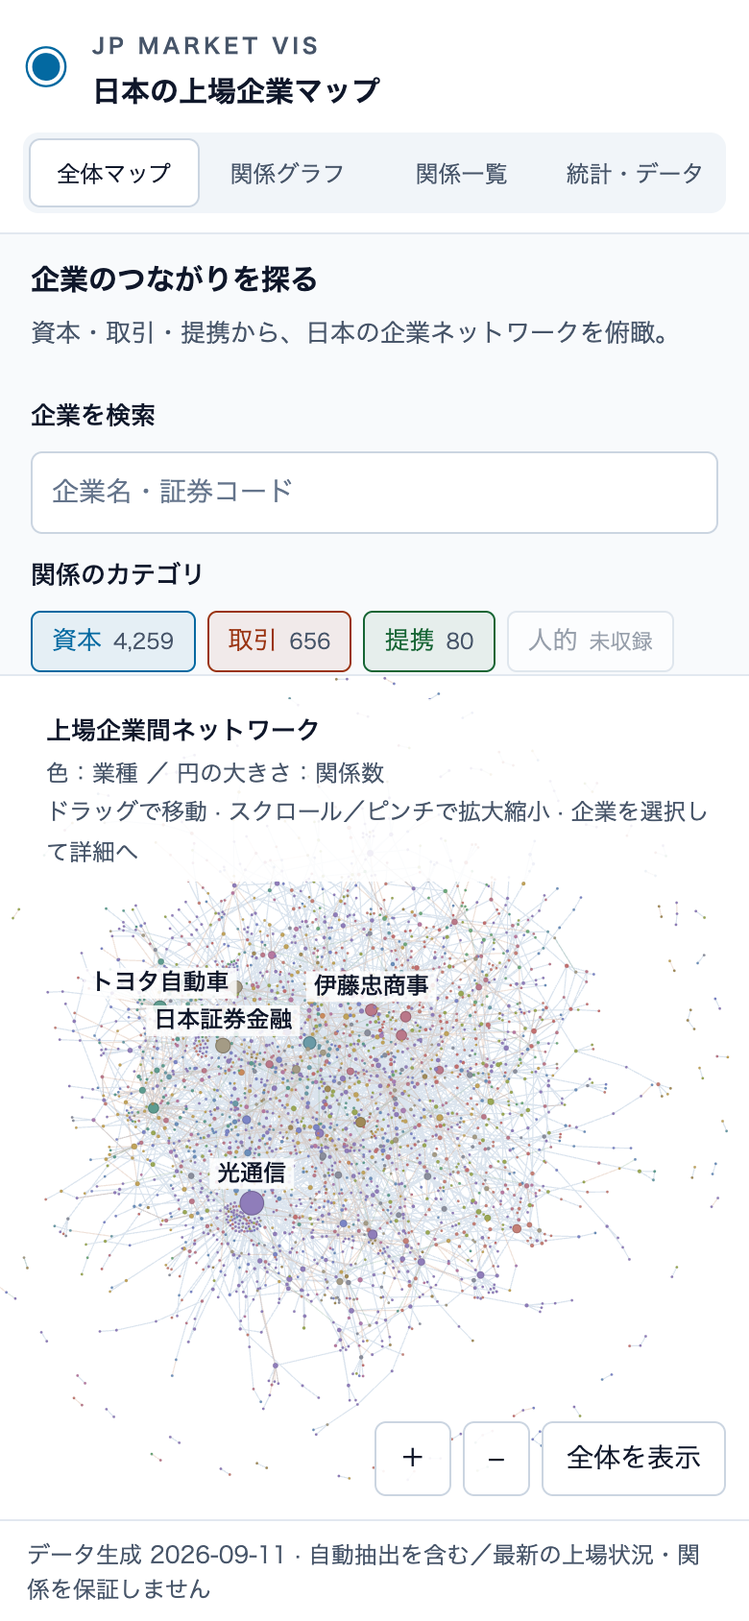
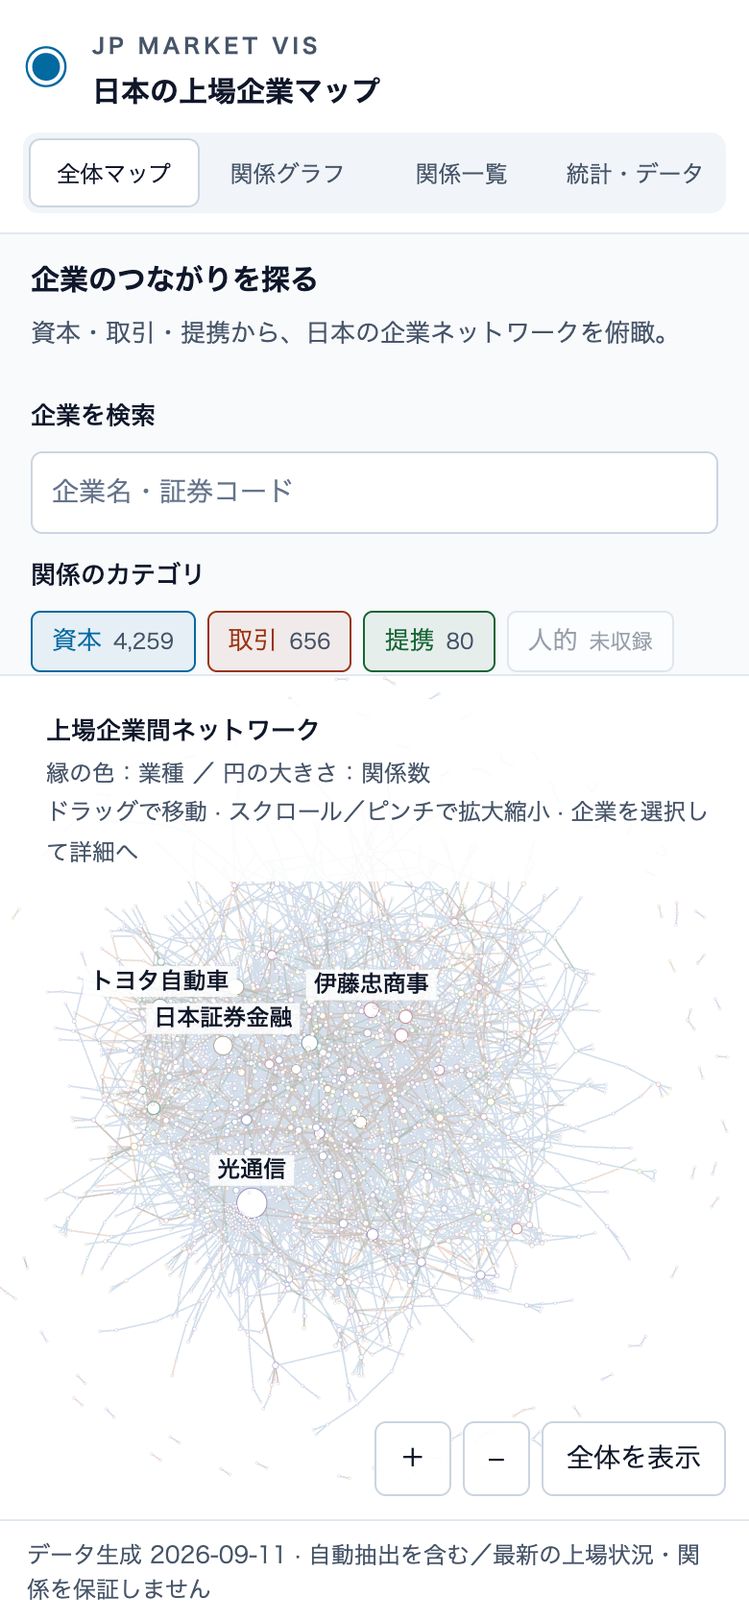
全体マップのノードを白い円＋業種色の縁にし、企業名を円の中に書く
- ノードは白で塗り、縁を業種色で描く（縁は円の内側に描き、外側＝当たり判定の半径）。
  ホバー中は縁を太くし、薄く業種色を敷いて 1.2 倍に拡大。半径は √関係数 × 2.8（最小 4）
- 企業名は円の中に書く（画面上 11〜20px）。1 行で入らなければ「・」や
  「ホールディングス」「インターネット」などの語の境界で 2 行に分け、収まる最大の文字で描く。
  それでも入らない企業は関係数の多い順に円の上へラベルを出し、名前入りの円や他のラベルとは重ねない
- 円内の文字と上ラベルは全ノード描画後の別パスで重ね、後から描かれる円に隠れないようにする
- 凡例の色見本を白抜きの縁付き円に変更、見出しを「縁の色：業種」に。線は不透明度 0.3・幅 0.8
- src/data/nodeShape.js に配置ロジック（insideLayout / splitCandidates）を置き、単体テスト 22 件

QA 71/71 合格（qa/results/2026-09-18-2d-map）、ビルド成功。

Changed region(s): [[0.1538, 0.5545, 0.7385, 0.8318], [0.0615, 0.4621, 0.5846, 0.4929]]

diff --git a/src/components/GlobalMap.jsx b/src/components/GlobalMap.jsx
@@ -2,17 +2,17 @@ import React, { useCallback, useEffect, useMemo, useRef, useState } from 'react'
 import ForceGraph2D from 'react-force-graph-2d';
 import { CATEGORY_AVAILABILITY, CATEGORY_COLORS, CATEGORY_JA, CATEGORY_TEXT_COLORS, GLOBAL_GRAPH, INDUSTRY_COLORS, industryColor, searchCompanies } from '../data/graph.js';
 import { filterGlobalGraph } from '../data/filterGlobalGraph.js';
-import { HOVER_SCALE, LABEL_MIN_DEGREE, nodeRadius, ringWidth, shade, showsLabel } from '../data/nodeShape.js';
+import { HOVER_SCALE, LABEL_MIN_DEGREE, insideLayout, nodeRadius, ringWidth, showsLabel } from '../data/nodeShape.js';
 
 // 収録のあるカテゴリだけを初期選択にする（未収録カテゴリは選択できない）
 const AVAILABLE_CATEGORIES = Object.keys(CATEGORY_JA).filter((key) => CATEGORY_AVAILABILITY[key]?.listed > 0);
 
-// 全体マップ: 平面（2D）のネットワーク。ノードは塗りの円＋細いリング（色は業種、半径 ∝ √関係数）、線は関係カテゴリ。
+// 全体マップ: 平面（2D）のネットワーク。ノードは白い円に業種色の縁（半径 ∝ √関係数）で、円の中に企業名を書く。線は関係カテゴリ。
 // ドラッグで移動、スクロール／ピンチで拡大縮小。ノードの描画と当たり判定は nodeShape.js の同じ半径を使う。
 const CORE_MIN_DEGREE = 3; // 「全体を表示」で収める中心部の関係数（孤立した小さな塊は画面外でもよい）
 const isCore = (node) => node.degree >= CORE_MIN_DEGREE;
 const PAN_STEP = 80; // 矢印キー 1 回で動かす画面上の距離（px）
-const LINK_ALPHA = '40'; // 線の不透明度 0.25（線より円が目立つように）
+const LINK_ALPHA = '4d'; // 線の不透明度 0.3（線より円が目立つように）
 const linkColor = (link) => `${CATEGORY_COLORS[link.category] ?? '#94a3b8'}${LINK_ALPHA}`;
 const noLabel = () => '';
 
@@ -69,32 +69,48 @@ export default function GlobalMap({ onSelectCompany }) {
     if (fn) { event.preventDefault(); fn(); }
   };
 
-  // --- ノードの描画: 塗りの円と、同色を暗くしたリング（円の内側に描くので外縁＝当たり判定の半径）。ホバー中はリングを太く・濃くし、少し拡大する
+  // --- ノードの描画: 白い円に業種色の縁（縁は円の内側に描くので外側＝当たり判定の半径）。ホバー中は縁を太くし、少し拡大して薄く色を敷く。
+  // 円の中に企業名を書く（画面上で 11〜20px、長い名前は 2 行。円に収まらない企業は drawLabels で円の上に出す）
+  const textWidths = useRef(new Map()); // 企業名の 12px での幅（画面 px）。倍率に関係なく一定なので一度だけ測る
+  const widthAt12 = (ctx, name) => {
+    let w = textWidths.current.get(name);
+    if (w === undefined) { const f = ctx.font; ctx.font = '12px sans-serif'; w = ctx.measureText(name).width; ctx.font = f; textWidths.current.set(name, w); }
+    return w;
+  };
   const drawNode = useCallback((node, ctx, scale) => {
     const hover = node === hoverRef.current;
     const r = nodeRadius(node.degree) * (hover ? HOVER_SCALE : 1);
     const color = industryColor(node.industry);
     const ring = ringWidth(r, hover);
-    ctx.beginPath(); ctx.arc(node.x, node.y, r, 0, Math.PI * 2);
-    ctx.fillStyle = color; ctx.fill();
     ctx.beginPath(); ctx.arc(node.x, node.y, r - ring / 2, 0, Math.PI * 2);
-    ctx.lineWidth = ring; ctx.strokeStyle = shade(color, hover ? 0.5 : 0.28); ctx.stroke();
+    ctx.fillStyle = hover ? `${color}1f` : '#ffffff'; ctx.fill();
+    ctx.lineWidth = ring; ctx.strokeStyle = color; ctx.stroke();
+    // 円の中に書く企業名の配置（null なら入らない）。文字は後から描かれる円に隠れないよう drawLabels でまとめて重ねる
+    node.__labelInside = insideLayout(r * scale, node.name, (text) => widthAt12(ctx, text));
   }, []);
-  // ラベルは全ノードを描いた後に別パスで重ねる（後から描かれる円に隠れない）。画面上で一定の大きさ（12px）、白の下地付き。
+  // 円の中に名前が入らない企業のラベルは、全ノードを描いた後に別パスで円の上に重ねる（後から描かれる円に隠れない）。画面上で一定の大きさ（12px）、白の下地付き。
   // 画面内の候補を関係数の多い順（ホバー中を最優先）に置き、先に置いたラベルと重なるものは描かない（縮小時にハブのラベルが重ならない）
   const dataRef = useRef(data); dataRef.current = data;
   const drawLabels = useCallback((ctx, scale) => {
     const fg = fgRef.current; if (!fg) return;
     const font = 12 / scale, pad = 4 / scale, hoverNode = hoverRef.current;
     const tl = fg.screen2GraphCoords(0, 0), br = fg.screen2GraphCoords(size.w, size.h);
-    const candidates = [];
+    const candidates = [], placed = []; // placed: 名前を書いた円と、置いたラベルの矩形（上ラベルはこれらと重ねない）
+    ctx.textAlign = 'center'; ctx.textBaseline = 'middle'; ctx.fillStyle = '#0f172a';
     for (const node of dataRef.current.nodes) {
       if (!Number.isFinite(node.x) || node.x < tl.x || node.x > br.x || node.y < tl.y || node.y > br.y) continue;
-      if (showsLabel(node.degree, scale, node === hoverNode)) candidates.push(node);
+      const hover = node === hoverNode;
+      const inside = node.__labelInside;
+      if (inside) {
+        ctx.font = `${hover ? 600 : 500} ${inside.font / scale}px sans-serif`;
+        const step = inside.font * 1.3 / scale, y0 = node.y - step * (inside.lines.length - 1) / 2;
+        inside.lines.forEach((line, i) => ctx.fillText(line, node.x, y0 + step * i));
+        const r = nodeRadius(node.degree) * (hover ? HOVER_SCALE : 1);
+        placed.push({ x0: node.x - r, x1: node.x + r, y0: node.y - r, y1: node.y + r });
+      } else if (showsLabel(node.degree, scale, hover)) candidates.push(node);
     }
     candidates.sort((a, b) => (b === hoverNode) - (a === hoverNode) || b.degree - a.degree);
     ctx.textAlign = 'center'; ctx.textBaseline = 'bottom';
-    const placed = [];
     for (const node of candidates) {
       const hover = node === hoverNode;
       const r = nodeRadius(node.degree) * (hover ? HOVER_SCALE : 1);
@@ -170,17 +186,17 @@ export default function GlobalMap({ onSelectCompany }) {
         </section>
         <details className="legend-details" open>
           <summary>業種の凡例</summary>
-          <div className="legend">{Object.entries(INDUSTRY_COLORS).map(([name, color]) => <span key={name}><i style={{ background: color }} />{name}</span>)}</div>
+          <div className="legend">{Object.entries(INDUSTRY_COLORS).map(([name, color]) => <span key={name}><i style={{ borderColor: color }} />{name}</span>)}</div>
         </details>
       </aside>
       <div ref={wrapRef} className="map-canvas" tabIndex={0} role="group"
         aria-label="上場企業間ネットワーク。ドラッグで移動、スクロールで拡大縮小。矢印キーで移動、＋／−で拡大縮小、0 で全体を表示できます。企業をクリックすると関係グラフを開きます。"
         onKeyDown={onKeyDown}>
-        <div className="map-caption"><strong>上場企業間ネットワーク</strong><br />色：業種 ／ 円の大きさ：関係数<br />ドラッグで移動 · スクロール／ピンチで拡大縮小 · 企業を選択して詳細へ</div>
+        <div className="map-caption"><strong>上場企業間ネットワーク</strong><br />縁の色：業種 ／ 円の大きさ：関係数<br />ドラッグで移動 · スクロール／ピンチで拡大縮小 · 企業を選択して詳細へ</div>
         <ForceGraph2D ref={fgRef} width={size.w} height={size.h} graphData={data}
           backgroundColor="#ffffff" nodeId="id" nodeLabel={noLabel}
           nodeCanvasObject={drawNode} nodePointerAreaPaint={paintPointerArea}
-          linkColor={linkColor} linkWidth={0.6}
+          linkColor={linkColor} linkWidth={0.8}
           warmupTicks={50} cooldownTicks={100}
           enableNodeDrag={false} minZoom={0.05} maxZoom={20}
           onRenderFramePost={drawLabels}

diff --git a/src/data/nodeShape.js b/src/data/nodeShape.js
@@ -1,25 +1,58 @@
-// 全体マップのノード（2D の塗りの円＋細いリング）の大きさとラベル表示の規則。
+// 全体マップのノード（白い円に業種色の縁、円の中に企業名）の大きさとラベル表示の規則。
 // 描画（nodeCanvasObject）と当たり判定（nodePointerAreaPaint）が同じ半径を使うので、見た目とホバー・クリックの対象が一致する。
-export const NODE_MIN_RADIUS = 3.5; // グラフ座標単位。全体表示（倍率 0.3 程度）でも関係数 1〜2 の企業が点として見える大きさ
+export const NODE_MIN_RADIUS = 4; // グラフ座標単位。全体表示（倍率 0.3 程度）でも関係数 1〜2 の企業が点として見える大きさ
 export const HOVER_SCALE = 1.2; // ホバー中の拡大率
 export const LABEL_MIN_DEGREE = 60; // 主要ハブはズームに関係なく常時ラベル
 
 // 半径は関係数の平方根に比例（面積が関係数に比例する）
 export function nodeRadius(degree) {
-  return Math.max(NODE_MIN_RADIUS, Math.sqrt(Math.max(0, degree || 0)) * 2.2);
+  return Math.max(NODE_MIN_RADIUS, Math.sqrt(Math.max(0, degree || 0)) * 2.8);
 }
 
-// リングの太さ（グラフ座標単位）。円の内側に描くので、リングの外縁＝半径
+// 縁の太さ（グラフ座標単位）。円の内側に描くので、縁の外側＝半径
 export function ringWidth(radius, hover = false) {
-  return hover ? Math.min(3.2, Math.max(1, radius * 0.22)) : Math.min(2.2, Math.max(0.5, radius * 0.12));
+  return hover ? Math.min(4, Math.max(1.2, radius * 0.25)) : Math.min(2.4, Math.max(0.6, radius * 0.14));
 }
 
-// 同色を k（0〜1）だけ暗くした色（リング用）
-export function shade(hex, k) {
-  return '#' + [1, 3, 5].map((i) => Math.round(parseInt(hex.slice(i, i + 2), 16) * (1 - k)).toString(16).padStart(2, '0')).join('');
+// 円の中に書く企業名の配置。文字の大きさは円の画面上の半径に応じて 11〜20px（fontMax）。
+// 1) 1 行で fontMax の 75% 以上の大きさで入ればそのまま、2) 入らなければ語の境界で 2 行に分けて収まる最大の文字で、
+// 3) それでも駄目なら 1 行で最小まで縮めて試し、入らなければ null（drawLabels が円の上に出す）。measure12 は 12px での文字幅（画面 px）
+export const INSIDE_FONT = { min: 11, max: 20, fill: 0.86 };
+export function insideLayout(screenRadius, name, measure12) {
+  const fontMax = Math.min(INSIDE_FONT.max, Math.max(INSIDE_FONT.min, screenRadius * 0.38));
+  const diameter = screenRadius * 2 * INSIDE_FONT.fill;
+  const width = (text, font) => measure12(text) * font / 12;
+  const single = (minFont) => { for (let font = fontMax; font >= minFont; font -= 1) if (width(name, font) <= diameter) return { font, lines: [name] }; return null; };
+  const one = single(Math.max(INSIDE_FONT.min, Math.ceil(fontMax * 0.75)));
+  if (one) return one;
+  if (name.length >= 4) {
+    for (const lines of splitCandidates(name)) {
+      for (let font = fontMax; font >= INSIDE_FONT.min; font -= 1) {
+        // 2 行目は中心から font×0.65 ずれるので、その高さでの弦の長さに収める
+        const chord = 2 * Math.sqrt(Math.max(0, screenRadius ** 2 - (font * 0.65) ** 2)) * INSIDE_FONT.fill;
+        if (font * 2.4 <= diameter && lines.every((line) => width(line, font) <= chord)) return { font, lines };
+      }
+    }
+  }
+  return single(INSIDE_FONT.min);
+}
+// 企業名を 2 行に分ける候補（中央に近い順）: 「・」や空白の後ろ、よく使われる語の前後。最後に中央での分割
+const SEPARATORS = '・ 　＆&';
+const WORDS = ['ホールディングス', 'ホールディング', 'グループ', 'フィナンシャル', 'インターネット', 'テクノロジーズ', 'テクノロジー', 'ソリューションズ', 'ソリューション',
+  'エンジニアリング', 'システムズ', 'システム', 'サービス', 'マネジメント', 'ネットワーク', 'コーポレーション', 'コミュニケーションズ', 'エレクトロニクス',
+  'インダストリーズ', 'インダストリー', 'パートナーズ', 'キャピタル', 'リアルエステート', 'ロジスティクス', 'ファーマ', 'ジャパン', 'ハウス', 'リース',
+  '不動産', '工業', '製作所', '電機', '電気', '銀行', '証券', '商事', '物産', '産業', '製薬', '化学', '建設', '運輸', '鉄道', '自動車', '日本'];
+export function splitCandidates(name) {
+  const mid = name.length / 2, cuts = new Set();
+  [...name].forEach((c, i) => { if (SEPARATORS.includes(c)) cuts.add(i + 1); });
+  for (const word of WORDS) for (let i = name.indexOf(word); i >= 0; i = name.indexOf(word, i + 1)) { cuts.add(i); cuts.add(i + word.length); }
+  const valid = [...cuts].filter((i) => i > 0 && i < name.length).sort((a, b) => Math.abs(a - mid) - Math.abs(b - mid));
+  const middle = Math.ceil(mid);
+  if (!valid.includes(middle)) valid.push(middle);
+  return valid.map((i) => [name.slice(0, i).trim(), name.slice(i).trim()]).filter(([a, b]) => a && b);
 }
 
-// ラベルを描く条件: ホバー中と主要ハブは常時。拡大するほど関係数の小さい企業にも表示する
+// 円の上にラベルを描く条件（円の中に名前が入らない場合）: ホバー中と主要ハブは常時。拡大するほど関係数の小さい企業にも表示する
 export function showsLabel(degree, zoom, hovered = false) {
   if (hovered || degree >= LABEL_MIN_DEGREE) return true;
   if (zoom >= 8) return true;

diff --git a/tests/nodeShape.test.js b/tests/nodeShape.test.js
@@ -1,6 +1,6 @@
 import test from 'node:test';
 import assert from 'node:assert/strict';
-import { HOVER_SCALE, LABEL_MIN_DEGREE, NODE_MIN_RADIUS, nodeRadius, ringWidth, shade, showsLabel } from '../src/data/nodeShape.js';
+import { HOVER_SCALE, INSIDE_FONT, LABEL_MIN_DEGREE, NODE_MIN_RADIUS, insideLayout, nodeRadius, ringWidth, showsLabel, splitCandidates } from '../src/data/nodeShape.js';
 
 test('node radius grows with the square root of the degree and never drops below the minimum', () => {
   assert.equal(nodeRadius(0), NODE_MIN_RADIUS);
@@ -20,12 +20,6 @@ test('the ring stays inside the circle at every size', () => {
   }
 });
 
-test('shade darkens every channel by the given ratio', () => {
-  assert.equal(shade('#ffffff', 0.5), '#808080');
-  assert.equal(shade('#6b8fbb', 0), '#6b8fbb');
-  assert.equal(shade('#6b8fbb', 1), '#000000');
-});
-
 test('labels appear for hubs and hover, and for smaller companies as the map is zoomed in', () => {
   assert.ok(showsLabel(LABEL_MIN_DEGREE, 0.5));
   assert.ok(showsLabel(1, 0.5, true));
@@ -34,4 +28,27 @@ test('labels appear for hubs and hover, and for smaller companies as the map is 
   assert.ok(showsLabel(8, 2) && !showsLabel(7, 2));
   assert.ok(showsLabel(3, 4) && !showsLabel(2, 4));
   assert.ok(showsLabel(1, 8));
+});
+
+test('the name is written inside the circle only when it fits, with a font between 11 and 20px', () => {
+  const measure12 = (text) => text.length * 12; // 1 文字 12px とみなす
+  assert.deepEqual(insideLayout(60, '日本製鉄', measure12), { font: INSIDE_FONT.max, lines: ['日本製鉄'] }); // 大きい円: 20px（幅 80px ≤ 103px）
+  assert.deepEqual(insideLayout(27, '日本製鉄', measure12), { font: INSIDE_FONT.min, lines: ['日本製鉄'] }); // 幅 44px ≤ 46.4px
+  assert.deepEqual(insideLayout(20, '日本製鉄', measure12), { font: INSIDE_FONT.min, lines: ['日本', '製鉄'] }); // 1 行は入らないが 2 行なら入る
+  assert.equal(insideLayout(12, '日本製鉄', measure12), null); // 2 行でも入らない
+  const long = insideLayout(100, 'ＧＭＯインターネットグループ', measure12); // 1 行 280px は入らず、語の境界で 2 行に分けて 17px
+  assert.deepEqual(long, { font: 17, lines: ['ＧＭＯインターネット', 'グループ'] });
+  assert.equal(insideLayout(30, 'ＧＭＯインターネットグループ', measure12), null); // 小さい円は 2 行でも入らない
+  const mid = insideLayout(40, '三菱電機', measure12);
+  assert.ok(mid.font > INSIDE_FONT.min && mid.font < INSIDE_FONT.max && mid.lines.length === 1);
+});
+
+test('long names split at a separator or word boundary closest to the middle, then in the middle', () => {
+  assert.deepEqual(splitCandidates('日本酸素ホールディングス')[0], ['日本酸素', 'ホールディングス']);
+  assert.deepEqual(splitCandidates('ソニーグループ')[0], ['ソニー', 'グループ']);
+  assert.deepEqual(splitCandidates('ＧＭＯインターネットグループ').slice(0, 2), [['ＧＭＯインターネット', 'グループ'], ['ＧＭＯ', 'インターネットグループ']]);
+  const ufj = splitCandidates('三菱ＵＦＪフィナンシャル・グループ');
+  assert.ok(ufj.some(([a, b]) => a === '三菱ＵＦＪフィナンシャル・' && b === 'グループ'));
+  assert.deepEqual(splitCandidates('東京センチュリー'), [['東京セン', 'チュリー']]); // 語の境界がなければ中央
+  for (const [a, b] of splitCandidates('三菱ＵＦＪフィナンシャル・グループ')) assert.equal((a + b).replace(/\s/g, ''), '三菱ＵＦＪフィナンシャル・グループ');
 });

diff --git a/src/styles.css b/src/styles.css
@@ -125,7 +125,7 @@ button:hover:not(:disabled) { filter: brightness(.96); }
 .control-section input[type=range] { width: 100%; accent-color: var(--accent); }
 .legend { display: grid; gap: 8px; }
 .legend span { display: flex; align-items: center; gap: 8px; font-size: 12px; color: var(--text-2); }
-.legend i { width: 9px; height: 9px; border-radius: 50%; flex-shrink: 0; }
+.legend i { width: 10px; height: 10px; border-radius: 50%; flex-shrink: 0; background: var(--bg); border: 2px solid; box-sizing: border-box; }
 .legend-details { margin-top: 20px; border-top: 1px solid var(--border); padding-top: 14px; }
 .legend-details summary { font-size: 13px; cursor: pointer; margin-bottom: 12px; }
 .map-canvas { position: relative; flex: 1; min-width: 0; overflow: hidden; background: var(--bg); }

diff --git a/README.md b/README.md
@@ -6,13 +6,13 @@
 
 ## できること
 
-- **全体マップ**：上場企業同士の関係を平面のネットワークで表示（react-force-graph-2d / Canvas）。企業名・通称・読み・証券コード検索、5カテゴリの絞り込み、最小関係数。ドラッグで移動、スクロール／ピンチで拡大縮小、「全体を表示」で初期の倍率・位置に戻ります。企業をクリック（動かさずに離す）すると関係グラフへ進み、ドラッグの終了では開きません。マップ領域にフォーカスして矢印キーで移動、＋/−で拡大縮小、0 または Home で全体を表示できます。描画は操作中と配置計算中だけ更新し、停止中は休止します。関係数の多い企業には常時ラベルを表示し、拡大するほど関係数の少ない企業にもラベルが出ます。その他はホバーで企業名を表示します。
+- **全体マップ**：上場企業同士の関係を平面のネットワークで表示（react-force-graph-2d / Canvas）。企業名・通称・読み・証券コード検索、5カテゴリの絞り込み、最小関係数。ドラッグで移動、スクロール／ピンチで拡大縮小、「全体を表示」で初期の倍率・位置に戻ります。企業をクリック（動かさずに離す）すると関係グラフへ進み、ドラッグの終了では開きません。マップ領域にフォーカスして矢印キーで移動、＋/−で拡大縮小、0 または Home で全体を表示できます。描画は操作中と配置計算中だけ更新し、停止中は休止します。企業名は円の中に書き、入らない企業は関係数の多いものから円の上に表示、拡大するほど多くの企業名が読めます。ホバーでも企業名を表示します。
 - **関係グラフ**：企業を中心とする1ホップの関係。上場企業を選択して移動、履歴で戻る、企業・関係の詳細とエビデンスを表示。関係先が多く省略された場合は、その企業で絞った関係一覧へ直接移動できます。
 - 表示を切り替えても各画面の状態（全体マップの検索・カテゴリ・最小関係数・視点、関係グラフの中心企業と履歴、一覧の絞り込みとページ）は保持されます。
 - **関係一覧**：カテゴリ・関係タイプ・企業名・コードで検索。300件ずつページ送りして全件を確認。
 - **統計・データ**：関係タイプ、出所、信頼度、ハブ企業ランキング、データの対象と制約。
 
-画面は白基調のシンプルなデザインで統一し、色は関係カテゴリ・業種・状態の識別にだけ使います（通常文字は白背景に対してコントラスト比 4.5:1 以上。色トークンは `src/styles.css` の `:root`、検証は `tests/theme.test.js` と `qa/run_qa.mjs` の文字コントラスト監査）。円の色は17業種（彩度を抑えたくすみ系の配色）、円の大きさは収録関係数です。ノードは塗りの円と細いリングのフラットな表現で、ホバー・クリックの対象は描かれた円と同じ半径です。株価・時価総額の表示ではなく、配置に地理的な意味はありません。カテゴリで絞った後の関係数で最小関係数を判定し、残った企業同士の線を表示します。
+画面は白基調のシンプルなデザインで統一し、色は関係カテゴリ・業種・状態の識別にだけ使います（通常文字は白背景に対してコントラスト比 4.5:1 以上。色トークンは `src/styles.css` の `:root`、検証は `tests/theme.test.js` と `qa/run_qa.mjs` の文字コントラスト監査）。ノードは白い円で、縁の色が17業種（彩度を抑えたくすみ系の配色）、円の大きさが収録関係数です。円の中に企業名を書き、円が小さくて入らない企業は関係数の多いものから順に円の上へラベルを出します（拡大するほど多くの企業名が読めます）。ホバー・クリックの対象は描かれた円と同じ半径です。株価・時価総額の表示ではなく、配置に地理的な意味はありません。カテゴリで絞った後の関係数で最小関係数を判定し、残った企業同士の線を表示します。
 
 ## 元になった実装
 

diff --git a/qa/results/2026-09-18-2d-map/REPORT.md b/qa/results/2026-09-18-2d-map/REPORT.md
@@ -1,6 +1,6 @@
 # 実操作レビュー結果 2026-09-18
 
-- 対象コミット: `2f97547e339cfd35d699f425e479ca7b5579b0d4`
+- 対象コミット: `1c480e307376e5f2a60793bf013e78dcf3f134a9`
 - URL: http://localhost:5184/JP_Market_Vis/
 - ブラウザ: Chrome 153.0.8010.48 (headless, Playwright)
 - 端末: darwin arm64（PC 1440×900 / 200%拡大相当 720×450 / タッチ 390×844 はエミュレーション。実機は未実施）
@@ -18,7 +18,7 @@
 | ロード | 狭い画面で横スクロールなし | 合格 |  |
 | ロード | 失敗時に簡潔なエラー表示（無限ローディングにならない） | 合格 | データを読み込めませんでした  再試行 |
 | ロード | 再試行で本画面を表示 | 合格 |  |
-| PC初回 | 初回表示（マップ描画まで） | 合格 | 990 ms |
+| PC初回 | 初回表示（マップ描画まで） | 合格 | 1252 ms |
 | PC初回 | コンソールエラーなし | 合格 |  |
 | PC初回 | 横スクロールなし | 合格 |  |
 | PC初回 | 見出し・操作部品の重なりなし | 合格 | {"capTools":false} |
@@ -35,7 +35,7 @@
 | 2D | 「全体を表示」で初期表示と同じ倍率・位置に戻る | 合格 | k=0.341 中心(127,20) / 初期 k=0.341 中心(127,20) |
 | 2D | 外側リリース後の再ドラッグで固着なし | 合格 |  |
 | 2D | ホバー状態がノードに反映される | 合格 | hover=9001 (東武鉄道) |
-| 2D | 円の内側だけがホバー対象（拡大した全体表示） | 合格 | 東武鉄道 中心(411,205) r=6.0 中心=東武鉄道 内側=東武鉄道 外側=なし/なし/なし/なし |
+| 2D | 円の内側だけがホバー対象（拡大した全体表示） | 合格 | 東武鉄道 中心(411,205) r=7.6 中心=東武鉄道 内側=東武鉄道 外側=なし/なし/なし/なし |
 | 2D | 円の中心のクリックで同じ企業が開く（拡大した全体表示） | 合格 | 東武鉄道 -> 東武鉄道 |
 | フィルタ | 全解除で空状態を表示 | 合格 |  |
 | フィルタ | 初期状態に戻すで復帰 | 合格 |  |
@@ -43,7 +43,7 @@
 | フィルタ | 未収録カテゴリが無効化されている | 合格 |  |
 | フィルタ | グループのみ（低次数の企業だけ）でも表示中の企業が収まる | 合格 | k=1.180 中心(-7,-6) -> k=20.000 中心(0,0) / 2 表示中の企業 1 表示中の関係 上場企業間 4,996件中 |
 | フィルタ | グループのみで「全体を表示」が機能する | 合格 | k=20.000 中心(0,0) |
-| 2D | 円の内側だけがホバー対象（グループのみ） | 合格 | ＧＭＯペパボ 中心(1150,327) r=84.0 中心=ＧＭＯペパボ 内側=ＧＭＯペパボ 外側=なし/なし/なし/なし |
+| 2D | 円の内側だけがホバー対象（グループのみ） | 合格 | ＧＭＯペパボ 中心(1150,327) r=96.0 中心=ＧＭＯペパボ 内側=ＧＭＯペパボ 外側=なし/なし/なし/なし |
 | 2D | 円の中心のクリックで同じ企業が開く（グループのみ） | 合格 | ＧＭＯペパボ -> ＧＭＯペパボ |
 | 往復 | 関係グラフでエッジを選択して詳細を表示 | 合格 |  |
 | 視認性 | 文字コントラスト 4.5:1（PC 関係グラフ＋詳細） | 合格 | 493 要素 |
